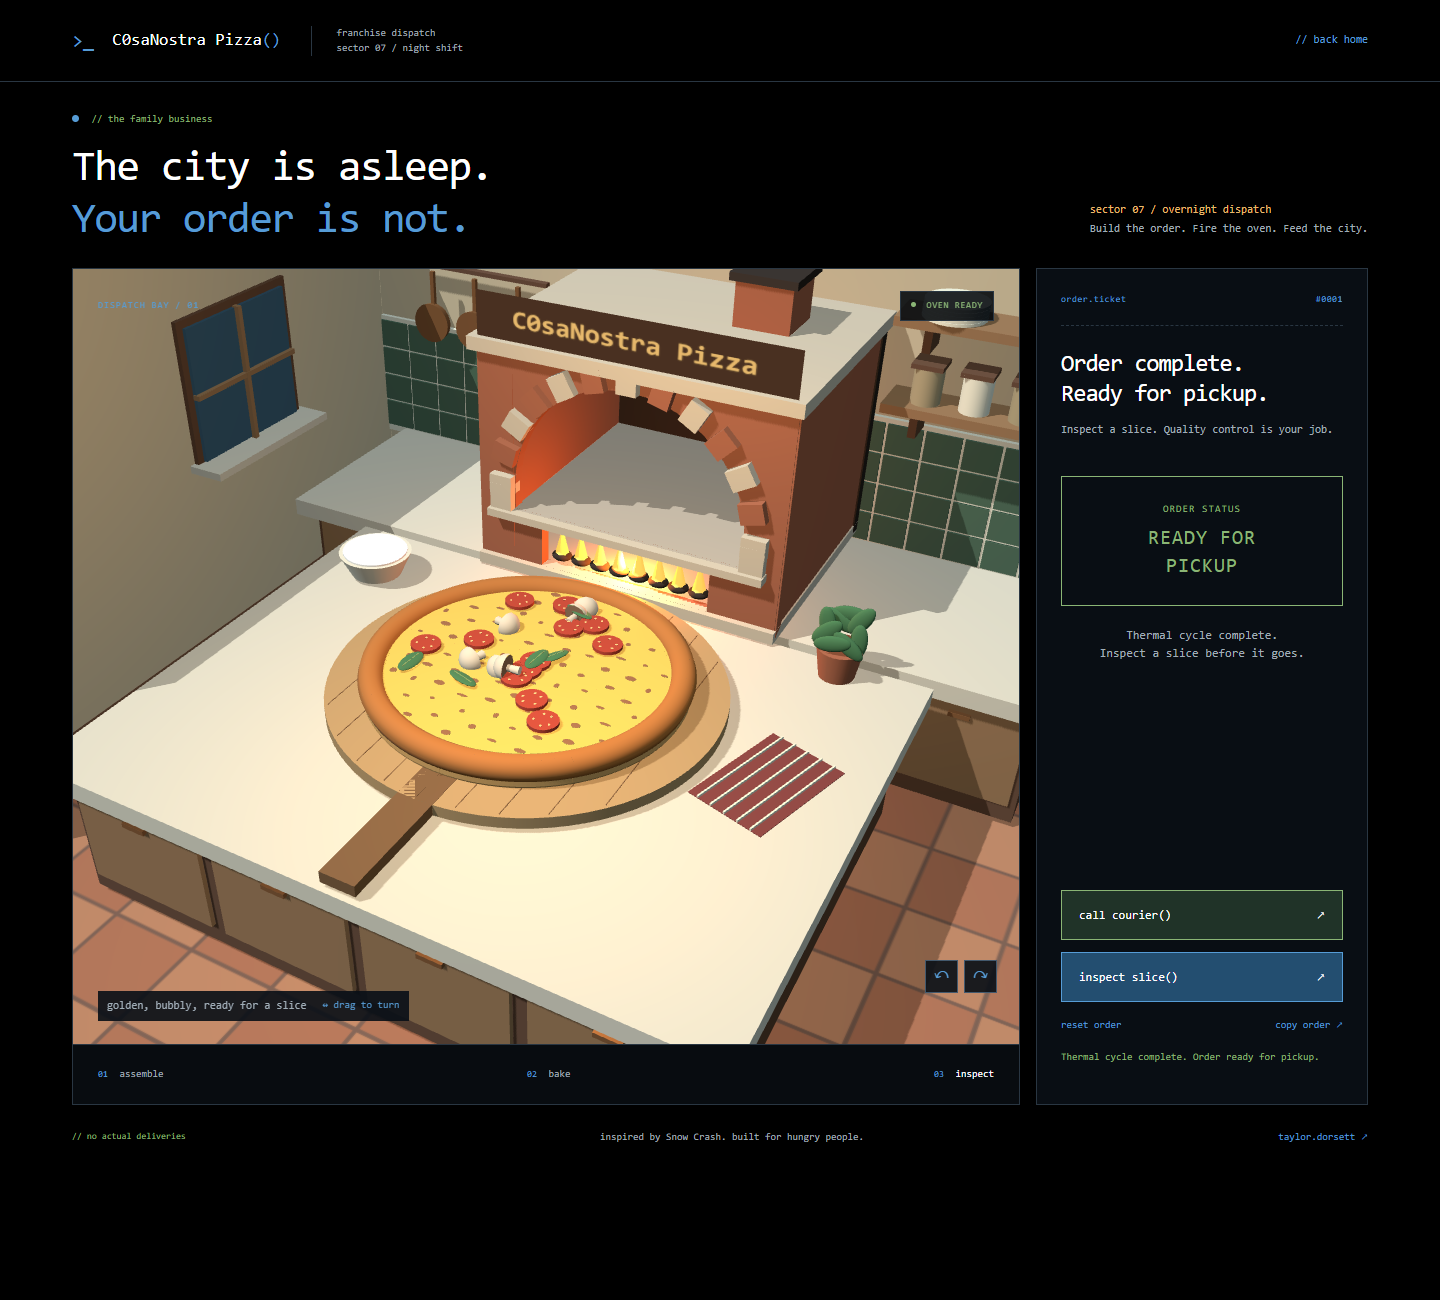
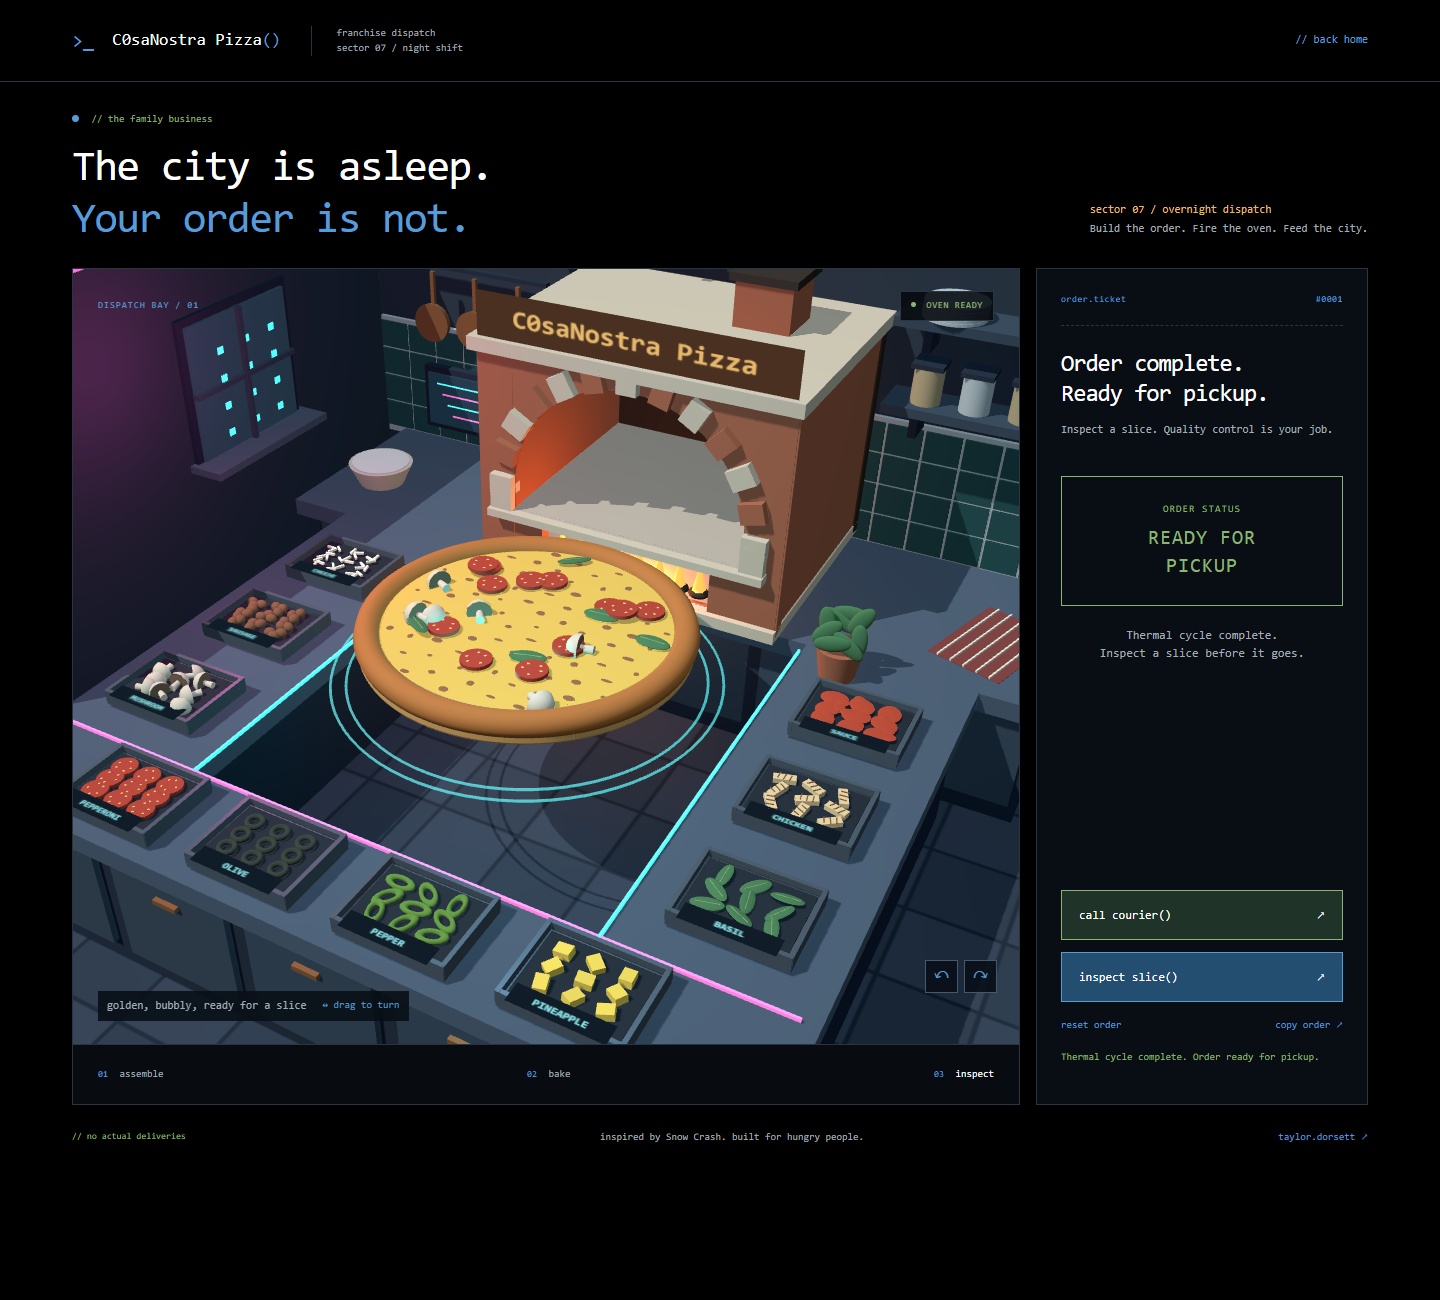
make the kitchen more cyberpunk

diff --git a/kitchen-room.js b/kitchen-room.js
@@ -6,25 +6,25 @@ import { createGeometry } from './geometry.js';
 export function createKitchenRoom(root) {
   const { mesh, box } = createGeometry(root);
   const material = (color) => new THREE.MeshStandardMaterial({ color, roughness: 0.85 });
-  const plaster = material('#d4bc91');
-  const wood = material('#67442d');
-  const oak = material('#9b7047');
-  const stone = material('#d9c9a9');
+  const plaster = material('#26313b');
+  const wood = material('#172431');
+  const oak = material('#31404a');
+  const stone = material('#47545e');
   const copper = new THREE.MeshStandardMaterial({
     color: '#b77846',
     metalness: 0.55,
     roughness: 0.4
   });
-  const ceramic = material('#eee1bd');
+  const ceramic = material('#b0b6ac');
 
   const tileCanvas = document.createElement('canvas');
   tileCanvas.width = tileCanvas.height = 256;
   const ctx = tileCanvas.getContext('2d');
-  ctx.fillStyle = '#785643';
+  ctx.fillStyle = '#14202a';
   ctx.fillRect(0, 0, 256, 256);
   for (let row = 0; row < 2; row++)
     for (let col = 0; col < 2; col++) {
-      ctx.fillStyle = (row + col) % 2 ? '#a96847' : '#b77a54';
+      ctx.fillStyle = (row + col) % 2 ? '#28333d' : '#303944';
       ctx.fillRect(col * 128 + 3, row * 128 + 3, 122, 122);
     }
   const tiles = new THREE.CanvasTexture(tileCanvas);
@@ -44,19 +44,23 @@ export function createKitchenRoom(root) {
 
   // Green glazed backsplash with a cream border around the oven and shelves.
   box(13.7, 2.25, 0.08, ceramic, root, 0, 0.6, -6.64);
-  const glaze = new THREE.MeshStandardMaterial({ color: '#536b50', roughness: 0.25 });
+  const glaze = new THREE.MeshStandardMaterial({ color: '#264d49', roughness: 0.25 });
   for (let row = 0; row < 4; row++)
     for (let col = 0; col < 23; col++) {
       box(0.55, 0.48, 0.04, glaze, root, -6.55 + col * 0.59, -0.15 + row * 0.52, -6.58);
     }
   box(14, 0.15, 0.2, wood, root, 0, 4.7, -6.6);
 
-  // A real prep counter, with a stone top and cabinets reaching the tiled floor.
-  box(9.3, 0.28, 7, stone, root, 0, -0.4, 0.7);
-  box(8.7, 1.85, 6.45, wood, root, 0, -1.45, 0.7);
-  for (const x of [-3.25, -1.08, 1.08, 3.25]) {
-    box(1.95, 1.45, 0.07, oak, root, x, -1.35, 3.96);
-    box(0.34, 0.07, 0.08, copper, root, x, -0.82, 4.02);
+  // Counters surround an open levitation bay. Nothing sits under the pizza.
+  for (const x of [-4, 4]) {
+    box(2.4, 0.28, 7.5, stone, root, x, -0.4, 0.7);
+    box(2.1, 1.85, 7, wood, root, x, -1.45, 0.7);
+  }
+  box(10.4, 0.28, 1.5, stone, root, 0, -0.4, 4.1);
+  box(10, 1.85, 1.2, wood, root, 0, -1.45, 4.1);
+  for (const x of [-4, -2, 0, 2, 4]) {
+    box(1.7, 1.45, 0.07, oak, root, x, -1.35, 4.75);
+    box(0.34, 0.07, 0.08, copper, root, x, -0.82, 4.81);
   }
   box(12.5, 0.28, 3.3, stone, root, 0, -0.4, -4.65);
   box(12, 1.9, 2.8, wood, root, 0, -1.45, -4.65);
@@ -111,7 +115,40 @@ export function createKitchenRoom(root) {
   box(0.12, 0.08, 2.3, oak, root, -6.68, 2, -2.7);
   box(0.6, 0.12, 2.7, stone, root, -6.55, 0.85, -2.7);
 
-  const warmLight = new THREE.PointLight('#ffd89c', 60, 18, 2);
+  // Retrofitted lighting and exposed services keep the old kitchen's shape.
+  const cyan = new THREE.MeshStandardMaterial({
+    color: '#63e9f4',
+    emissive: '#27bad7',
+    emissiveIntensity: 2
+  });
+  const pink = new THREE.MeshStandardMaterial({
+    color: '#e58ab9',
+    emissive: '#be327b',
+    emissiveIntensity: 1.8
+  });
+  box(13.4, 0.045, 0.06, cyan, root, 0, 4.45, -6.55);
+  box(0.06, 0.045, 10, pink, root, -6.7, 4.45, -0.9);
+  for (const x of [-2.78, 2.78]) box(0.035, 0.045, 6.9, cyan, root, x, -0.22, 0.7);
+  box(10, 0.045, 0.035, pink, root, 0, -0.22, 3.35);
+  for (const y of [3.7, 4.05]) box(7, 0.09, 0.12, wood, root, -2.8, y, -6.45);
+  for (const x of [-5.8, -3.2, -0.6]) box(0.14, 0.55, 0.18, copper, root, x, 3.9, -6.4);
+  const accent = new THREE.PointLight('#ee4eaa', 22, 12, 2);
+  accent.position.set(-5, 3, 0);
+  root.add(accent);
+  const screen = new THREE.MeshStandardMaterial({
+    color: '#16303c',
+    emissive: '#16303c',
+    emissiveIntensity: 0.6
+  });
+  box(2.1, 1.15, 0.15, wood, root, -4.5, 0.65, -6.1);
+  box(1.9, 0.95, 0.04, screen, root, -4.5, 0.65, -5.99);
+  for (let i = 0; i < 4; i++)
+    box(1.3 - i * 0.2, 0.025, 0.02, i % 2 ? pink : cyan, root, -4.6, 0.95 - i * 0.19, -5.96);
+  // Lit signs and distant windows visible through the side window.
+  for (let i = 0; i < 4; i++)
+    for (let j = 0; j < 3; j++)
+      box(0.02, 0.11, 0.12, cyan, root, -6.67, 1.2 + i * 0.45, -3.4 + j * 0.6);
+  const warmLight = new THREE.PointLight('#83b9dc', 28, 18, 2);
   warmLight.position.set(1, 5, 2);
   root.add(warmLight);
 }

diff --git a/kitchen.js b/kitchen.js
@@ -3,6 +3,7 @@ import { createGeometry } from './geometry.js';
 import { createKitchenRoom } from './kitchen-room.js';
 import { createPizzaOven } from './pizza-oven.js';
 import { ovenLayout } from './oven-motion.js';
+import { createIngredientStation } from './ingredient-station.js';
 export function createKitchen(scene) {
   const root = new THREE.Group();
   scene.add(root);
@@ -11,8 +12,6 @@ export function createKitchen(scene) {
   const material = (color, extra = {}) =>
     new THREE.MeshStandardMaterial({ color, roughness: 0.8, ...extra });
   const mats = {
-    wood: material('#b88e59'),
-    edge: material('#79532f'),
     crust: material('#e9b96b'),
     dough: material('#edc986'),
     cheese: material('#f4d575', { roughness: 0.52 }),
@@ -41,9 +40,9 @@ export function createKitchen(scene) {
   const { flames } = createPizzaOven(root);
   // Flour bowl, basil pot and a folded tea towel.
   const bowl = mesh(new THREE.CylinderGeometry(0.55, 0.38, 0.36, 32), mats.cream);
-  bowl.position.set(-3.6, -0.03, -1.65);
+  bowl.position.set(-5.3, -0.03, -4.2);
   const flour = mesh(new THREE.CylinderGeometry(0.49, 0.49, 0.03, 32), material('#f9efd9'));
-  flour.position.set(-3.6, 0.16, -1.65);
+  flour.position.set(-5.3, 0.16, -4.2);
   const pot = mesh(new THREE.CylinderGeometry(0.32, 0.24, 0.5, 24), mats.brick);
   pot.position.set(3.4, -0.05, -2.5);
   for (let i = 0; i < 8; i++) {
@@ -60,7 +59,7 @@ export function createKitchen(scene) {
     );
     leaf.rotation.z = a;
   }
-  const cloth = box(1.1, 0.035, 1.65, mats.towel, root, 3.4, -0.27, 0.1);
+  const cloth = box(1.1, 0.035, 1.65, mats.towel, root, 5.1, -0.27, -4.3);
   cloth.rotation.y = -0.3;
   for (let i = 0; i < 5; i++) {
     const stripe = box(0.025, 0.04, 1.65, mats.cream, cloth, -0.4 + i * 0.2, 0.03, 0);
@@ -69,18 +68,21 @@ export function createKitchen(scene) {
 
   const carriage = new THREE.Group();
   root.add(carriage);
-  const peel = mesh(
-    new THREE.CylinderGeometry(ovenLayout.peelRadius, ovenLayout.peelRadius, 0.16, 80),
-    mats.wood,
-    carriage
-  );
-  peel.position.y = -0.1;
-  box(0.48, 0.16, 2.1, mats.edge, carriage, 0, -0.1, 3.1);
-  for (let i = 0; i < 9; i++) {
-    const x = -2 + i * 0.5;
-    const length = 2 * Math.sqrt(2.6 ** 2 - x * x);
-    box(0.012, 0.004, length, mats.edge, carriage, x, -0.016, 0);
+  carriage.position.y = ovenLayout.prepHeight;
+  const fieldMaterial = material('#52deef', {
+    emissive: '#32c9e8',
+    emissiveIntensity: 2,
+    transparent: true,
+    opacity: 0.7
+  });
+  for (const radius of [2.35, 2.55]) {
+    const ring = mesh(new THREE.TorusGeometry(radius, 0.018, 6, 80), fieldMaterial, root);
+    ring.rotation.x = -Math.PI / 2;
+    ring.position.y = 0.15;
   }
+  const fieldLight = new THREE.PointLight('#31dbe9', 8, 7, 2);
+  fieldLight.position.set(0, 0.4, 1);
+  root.add(fieldLight);
   const pizza = new THREE.Group();
   carriage.add(pizza);
   const slices = [];
@@ -230,6 +232,8 @@ export function createKitchen(scene) {
     }
     return group;
   }
+
+  createIngredientStation(root, makeTopping);
 
   function setCooked(t) {
     mats.crust.color.set('#e9b96b').lerp(new THREE.Color('#b96d2e'), t);

diff --git a/ingredient-station.js b/ingredient-station.js
@@ -1,0 +1,62 @@
+import * as THREE from './vendor/three.module.js';
+import { createGeometry } from './geometry.js';
+
+// Reuse the same ingredient meshes as the pizza, including their shared geometry.
+export function createIngredientStation(root, makeTopping) {
+  const { box, mesh } = createGeometry(root);
+  const steel = new THREE.MeshStandardMaterial({
+    color: '#77848a',
+    metalness: 0.65,
+    roughness: 0.4
+  });
+  const inside = new THREE.MeshStandardMaterial({ color: '#172127', roughness: 0.8 });
+  const trays = [
+    ['cheese', -4, -1.4],
+    ['sausage', -4, 0.45],
+    ['mushroom', -4, 2.3],
+    ['sauce', 4, -1.4],
+    ['chicken', 4, 0.45],
+    ['basil', 4, 2.3],
+    ['pepperoni', -3, 4.1],
+    ['olive', -1, 4.1],
+    ['pepper', 1, 4.1],
+    ['pineapple', 3, 4.1]
+  ];
+  for (const [type, x, z] of trays) {
+    const tray = new THREE.Group();
+    tray.position.set(x, -0.15, z);
+    root.add(tray);
+    box(1.4, 0.12, 1.1, steel, tray);
+    box(1.25, 0.025, 0.94, inside, tray, 0, 0.07, 0);
+    for (const side of [-1, 1]) {
+      box(0.055, 0.16, 1.1, steel, tray, side * 0.68, 0.08, 0);
+      box(1.4, 0.16, 0.055, steel, tray, 0, 0.08, side * 0.53);
+    }
+    for (let i = 0; i < 9; i++) {
+      const ingredient = makeTopping(type);
+      ingredient.scale.setScalar(0.8);
+      ingredient.position.set(((i % 3) - 1) * 0.36, 0.13, (Math.floor(i / 3) - 1) * 0.24);
+      ingredient.rotation.y = i * 2.4;
+      tray.add(ingredient);
+    }
+    const canvas = document.createElement('canvas');
+    canvas.width = 256;
+    canvas.height = 64;
+    const ctx = canvas.getContext('2d');
+    ctx.fillStyle = '#101c27';
+    ctx.fillRect(0, 0, 256, 64);
+    ctx.fillStyle = '#8feaf2';
+    ctx.font = 'bold 28px monospace';
+    ctx.textAlign = 'center';
+    ctx.fillText(type.toUpperCase(), 128, 43);
+    const texture = new THREE.CanvasTexture(canvas);
+    texture.colorSpace = THREE.SRGBColorSpace;
+    const label = mesh(
+      new THREE.PlaneGeometry(1.1, 0.25),
+      new THREE.MeshBasicMaterial({ map: texture }),
+      tray
+    );
+    label.rotation.x = -Math.PI / 2;
+    label.position.set(0, 0.18, 0.5);
+  }
+}

diff --git a/oven-motion.test.js b/oven-motion.test.js
@@ -2,12 +2,12 @@ import test from 'node:test';
 import assert from 'node:assert/strict';
 import { bakingPose, ovenLayout } from './oven-motion.js';
 
-test('the peel clears the fire and stone throughout entry and exit', () => {
+test('the pizza clears the fire and stone throughout entry and exit', () => {
   for (let i = 0; i <= 1000; i++) {
     const pose = bakingPose(i / 1000);
-    const radius = ovenLayout.peelRadius * pose.scale;
+    const radius = ovenLayout.pizzaRadius * pose.scale;
     if (pose.z - radius < ovenLayout.mouthZ) {
-      const bottom = pose.y + ovenLayout.peelBottom * pose.scale;
+      const bottom = pose.y + ovenLayout.pizzaBottom * pose.scale;
       assert.ok(bottom >= ovenLayout.deckTop, 'lift before crossing the oven mouth');
       assert.ok(bottom > ovenLayout.flameTop, 'keep the fire below the pizza');
       assert.ok(radius < ovenLayout.openingHalfWidth, 'fit through the opening');
@@ -15,9 +15,9 @@ test('the peel clears the fire and stone throughout entry and exit', () => {
   }
 });
 
-test('baking rests inside the oven and returns to the same counter position', () => {
-  assert.deepEqual(bakingPose(0), { y: 0, z: 0, scale: 1 });
-  assert.deepEqual(bakingPose(1), { y: 0, z: 0, scale: 1 });
+test('baking rests inside the oven and returns to the same hovering position', () => {
+  assert.deepEqual(bakingPose(0), { y: ovenLayout.prepHeight, z: 0, scale: 1 });
+  assert.deepEqual(bakingPose(1), { y: ovenLayout.prepHeight, z: 0, scale: 1 });
   assert.equal(bakingPose(0.5).z, ovenLayout.centerZ);
   assert.equal(bakingPose(0.5).y, ovenLayout.bakingHeight);
 });

diff --git a/oven-motion.js b/oven-motion.js
@@ -1,4 +1,4 @@
-// These dimensions are shared by the oven model and its animation so the peel
+// These dimensions are shared by the oven model and its animation so the pizza
 // clears the opening and rests above the stone instead of passing through fire.
 export const ovenLayout = {
   centerZ: -4.5,
@@ -6,9 +6,10 @@ export const ovenLayout = {
   openingHalfWidth: 1.8,
   deckTop: 0.81,
   flameTop: 0.57,
-  peelRadius: 2.65,
-  peelBottom: -0.18,
-  bakingHeight: 0.93,
+  pizzaRadius: 2.22,
+  pizzaBottom: -0.01,
+  prepHeight: 0.65,
+  bakingHeight: 0.82,
   bakingScale: 0.62
 };
 
@@ -22,7 +23,7 @@ export function bakingPose(progress) {
   const slide =
     progress < 0.76 ? smooth((progress - 0.12) / 0.15) : 1 - smooth((progress - 0.76) / 0.12);
   return {
-    y: ovenLayout.bakingHeight * lift,
+    y: ovenLayout.prepHeight + (ovenLayout.bakingHeight - ovenLayout.prepHeight) * lift,
     z: slide === 0 ? 0 : ovenLayout.centerZ * slide,
     scale: 1 - (1 - ovenLayout.bakingScale) * lift
   };

diff --git a/order.js b/order.js
@@ -1,4 +1,4 @@
-import { bakingPose } from './oven-motion.js';
+import { bakingPose, ovenLayout } from './oven-motion.js';
 import { createCourier } from './courier.js';
 import { maxToppings, decodeRecipe, randomSpot } from './recipe.js';
 import { updateOrderView, updateCourierPhase, say } from './order-view.js';
@@ -83,7 +83,7 @@ export function startOrder({
     restoreKitchen();
     removeAll();
     mode = 'prep';
-    carriage.position.set(0, 0, 0);
+    carriage.position.set(0, ovenLayout.prepHeight, 0);
     carriage.scale.setScalar(1);
     sliceTarget = 0;
     slices[6].position.set(0, 0, 0);
@@ -243,7 +243,7 @@ export function startOrder({
       fireLight.intensity = 18;
       if (t === 1) {
         mode = 'baked';
-        carriage.position.set(0, 0, 0);
+        carriage.position.set(0, ovenLayout.prepHeight, 0);
         carriage.scale.setScalar(1);
         update();
         say('Thermal cycle complete. Order ready for pickup.');

diff --git a/pizza-input.js b/pizza-input.js
@@ -13,7 +13,8 @@ export function bindPizzaInput({
 }) {
   let pointerStart = null;
   const raycaster = new THREE.Raycaster();
-  const groundPlane = new THREE.Plane(new THREE.Vector3(0, 1, 0), -0.28);
+  const groundPlane = new THREE.Plane();
+  const up = new THREE.Vector3(0, 1, 0);
   host.addEventListener('pointerdown', (event) => {
     pointerStart = {
       x: event.clientX,
@@ -50,6 +51,11 @@ export function bindPizzaInput({
       camera
     );
     const point = new THREE.Vector3();
+    // Placement follows the floating pizza instead of the counter below it.
+    groundPlane.setFromNormalAndCoplanarPoint(
+      up,
+      pizza.localToWorld(new THREE.Vector3(0, 0.28, 0))
+    );
     if (!raycaster.ray.intersectPlane(groundPlane, point)) return;
     pizza.worldToLocal(point);
     if (Math.hypot(point.x, point.z) > toppingRadius) {

diff --git a/build.js b/build.js
@@ -12,6 +12,7 @@ for (const file of [
   'geometry.js',
   'kitchen.js',
   'kitchen-room.js',
+  'ingredient-station.js',
   'pizza-oven.js',
   'oven-motion.js',
   'order.js',

diff --git a/README.md b/README.md
@@ -8,7 +8,7 @@ she has a magnetic wrist launcher, a courier bag, knee pads and a smartwheel boa
 
 reduced motion shows a still handoff instead of the moving chase.
 
-black background, monospace and the same syntax colors as my website. inside the shop is a warm italian kitchen with tiled walls, stone counters, wood cabinets and a brick oven. the courier heads out into the city at night.
+black background, monospace and the same syntax colors as my website. inside the shop is an italian kitchen retrofitted with neon lighting, dark counters and a wall display. the pizza floats between stocked ingredient counters, with a brick oven behind it. the courier heads out into the city at night.
 
 pick a topping and tap the cheese. drag sideways to turn it, or use the arrow buttons. add a handful if you want less precision. the house special makes one for you.
 
@@ -70,7 +70,7 @@ the normal order path is `prep → baking → baked → pickup → dispatched`. 
 
 opening a recipe replaces the current order and resets its rotation, slice and oven position. a broken link leaves the current order alone. browser checks compare the resulting pizza with a fresh recipe after interrupting baking, inspection and pickup.
 
-the oven has a separate firebox below its stone deck. the peel lifts before entering, stays above the fire, then comes back out before lowering onto the counter. `oven-motion.js` shares its dimensions with `pizza-oven.js`. clearance checks cover the whole entry and exit path.
+the oven has a separate firebox below its stone deck. the floating pizza rises into the oven, stays above the fire, then returns to its hovering position. `oven-motion.js` shares its dimensions with `pizza-oven.js`. clearance checks cover the whole entry and exit path. topping placement follows the pizza height. `ingredient-station.js` builds the surrounding trays using the same shared ingredient models.
 
 the order controller owns state. scene files own geometry. the view reads state and updates the page. keep those boundaries when adding things.
 
